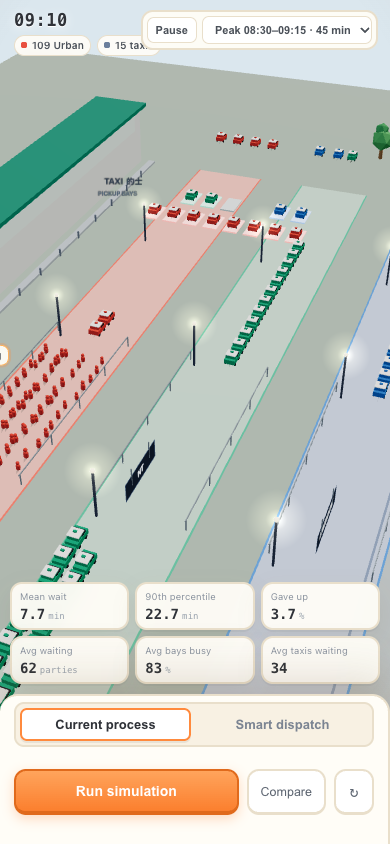
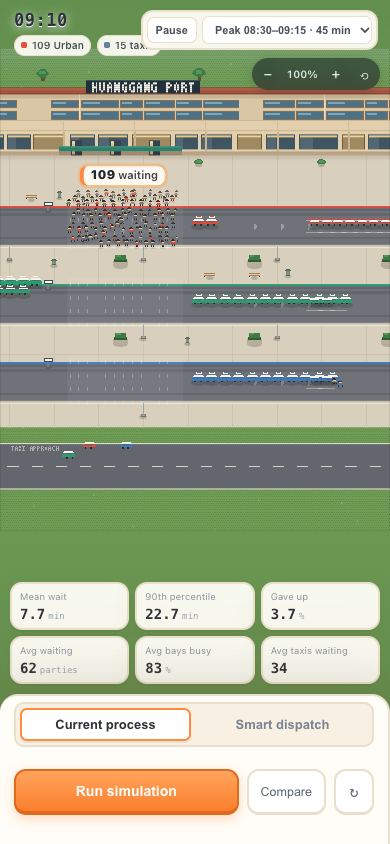
Camera controls you can see, crowd legibility, label clipping
The camera worked but had no affordance: at 100% the whole hall fits, so
dragging did nothing and scrolling was the only way in. Added a visible
zoom cluster (minus / percentage / plus / reset), double-click to dive in
at the pointer, +-0 keyboard shortcuts, and a hint that names the gesture.

Crowd: people are 7px tall instead of 8, so rows no longer touch; overflow
layers are offset into depth (and slightly darkened) instead of stacking
almost exactly on top of each other. A 100-person queue now reads as
individuals at 2x zoom.

Bugs found and fixed while testing:
- counters anchored to points the camera had panned off floated over the
  sidebar; they are now hidden when out of view
- the guided tour still said 'drag to orbit' from the 3D version
- bays array could be undefined if a render happened before setScene
- split panels, dead code comments, stale README screenshots

Adds tests/smoke.mjs: diag, compare, mobile, tour, zoom-label tracking.

diff --git a/web/js/pixel/pixel-scene.js b/web/js/pixel/pixel-scene.js
@@ -96,6 +96,7 @@ export class PixelScene {
     this.labelEls = null;
     this.metaFrame = null;
     this.meta = null;
+    this.bays = [];
 
     // viewport camera over the finished buffer: pan and zoom are pure blits,
     // so the world keeps its authored pixel size at every zoom level
@@ -153,14 +154,26 @@ export class PixelScene {
     c.style.cursor = "grab";
     c.style.touchAction = "none";
 
-    c.addEventListener("wheel", (e) => {
-      e.preventDefault();
-      const before = toBuffer(e.clientX, e.clientY);
-      this.cam.zoom = clamp(this.cam.zoom * Math.exp(-e.deltaY * 0.0016), 1, 4);
-      const after = toBuffer(e.clientX, e.clientY);
+    this._screenToBuffer = (px, py) => {
+      const r = this._viewRect();
+      const k = this.scale * this.cam.zoom;
+      return { x: r.x + (px - this.offX) / k, y: r.y + (py - this.offY) / k };
+    };
+    this._zoomAt = (clientX, clientY, factor) => {
+      const rect = c.getBoundingClientRect();
+      const px = (clientX - rect.left) * (c.width / rect.width);
+      const py = (clientY - rect.top) * (c.height / rect.height);
+      const before = this._screenToBuffer(px, py);
+      this.cam.zoom = clamp(this.cam.zoom * factor, 1, 4);
+      const after = this._screenToBuffer(px, py);
       this.cam.x += before.x - after.x;
       this.cam.y += before.y - after.y;
       this._clampCam();
+    };
+
+    c.addEventListener("wheel", (e) => {
+      e.preventDefault();
+      this._zoomAt(e.clientX, e.clientY, Math.exp(-e.deltaY * 0.0016));
     }, { passive: false });
 
     c.addEventListener("pointerdown", (e) => {
@@ -215,7 +228,10 @@ export class PixelScene {
     c.addEventListener("pointerup", end);
     c.addEventListener("pointercancel", end);
 
-    c.addEventListener("dblclick", () => this.resetView());
+    // double-click dives into the point you clicked; the ⟲ button resets
+    c.addEventListener("dblclick", (e) => {
+      this._zoomAt(e.clientX, e.clientY, e.shiftKey ? 1 / 1.6 : 1.6);
+    });
   }
 
   /** Visible window into the buffer, centred on the camera. */
@@ -236,6 +252,12 @@ export class PixelScene {
     const hy = H / (2 * z);
     this.cam.x = this._clamp(this.cam.x, wx, W - wx);
     this.cam.y = this._clamp(this.cam.y, hy, H - hy);
+  }
+
+  /** Zoom about the middle of the canvas (what the +/− buttons call). */
+  zoomBy(factor) {
+    const r = this.canvas.getBoundingClientRect();
+    this._zoomAt?.(r.left + r.width / 2, r.top + r.height / 2, factor);
   }
 
   resetView() {
@@ -360,10 +382,10 @@ export class PixelScene {
       // brick pattern: every other row is offset half a slot, so the queue
       // reads as a loose crowd instead of a grid of identical figures
       const stagger = row % 2 ? 0.4 : 0;
-      const qx = 13.4 + col * 0.8 + stagger + layer * 0.16;
-      const qz = LANES[CLS[clsId]] + [-2.05, -0.68, 0.68, 2.05][row] + layer * 0.10;
-      const jx = (((id * 37) % 17) / 17 - 0.5) * 0.26;
-      const jz = (((id * 53) % 19) / 19 - 0.5) * 0.30;
+      const qx = 13.4 + col * 0.8 + stagger + layer * 0.42;
+      const qz = LANES[CLS[clsId]] + [-2.05, -0.68, 0.68, 2.05][row] - layer * 0.5;
+      const jx = (((id * 37) % 17) / 17 - 0.5) * 0.16;
+      const jz = (((id * 53) % 19) / 19 - 0.5) * 0.16;
       let e = this.people.get(id);
       if (!e) {
         const [dx, dz] = doorPos(clsId);
@@ -377,6 +399,7 @@ export class PixelScene {
       }
       e.tx = qx + jx;
       e.tz = qz + jz;
+      e.layer = layer;
     }
 
     for (const [id, e] of this.people) {
@@ -407,8 +430,8 @@ export class PixelScene {
     const k = slot % 48;
     const col = k % 12, row = Math.floor(k / 12);
     return [
-      13.4 + col * 0.8 + (row % 2 ? 0.4 : 0) + layer * 0.16,
-      LANES[CLS[clsId]] + [-2.05, -0.68, 0.68, 2.05][row] + layer * 0.10,
+      13.4 + col * 0.8 + (row % 2 ? 0.4 : 0) + layer * 0.42,
+      LANES[CLS[clsId]] + [-2.05, -0.68, 0.68, 2.05][row] - layer * 0.5,
     ];
   }
 
@@ -487,24 +510,36 @@ export class PixelScene {
   _updateLabels() {
     if (!this.labelEls || !this.metaFrame) return;
     const f = this.metaFrame;
+    const r = this._viewRect();
+
+    // a counter anchored to something the camera has panned off-screen must
+    // disappear, otherwise it floats over the sidebar in stage coordinates
+    const inView = (wx, wz) => {
+      const bx = X(wx);
+      const by = Z(wz) - 1.7 * 13;
+      return bx > r.x - 12 && bx < r.x + r.w + 12 && by > r.y - 12 && by < r.y + r.h + 12;
+    };
+
     let worst = 0;
     for (let c = 1; c < 3; c++) if (f.q[c] > f.q[worst]) worst = c;
+
     for (let c = 0; c < 3; c++) {
       const el = this.labelEls[c];
       const [wx, wz] = this._queueSlot(c, Math.min(6, Math.max(0, f.q[c] - 1)));
       const p = this.project(wx, 1.7, wz);
       const n = f.q[c];
-      el.classList.toggle("hidden", n === 0);
+      el.classList.toggle("hidden", n === 0 || !inView(wx, wz));
       el.classList.toggle("worst", c === worst && n > 6);
       el.innerHTML = `<b>${n}</b> waiting`;
       el.style.transform = `translate(${p.x}px, ${p.y}px) translate(-50%, -100%)`;
     }
+
     const buf = this.labelEls[3];
     const [bx, bz] = bufferPos(0, 10);
     const pb = this.project(bx, 1.7, bz);
     buf.innerHTML = `<b>${f.buf}</b> taxis`;
     buf.style.transform = `translate(${pb.x}px, ${pb.y}px) translate(-50%, -100%)`;
-    buf.classList.remove("hidden");
+    buf.classList.toggle("hidden", !inView(bx, bz));
   }
 
   /* ================================================================== *
@@ -512,6 +547,12 @@ export class PixelScene {
    * ================================================================== */
   render() {
     this._applyView();          // compare view: panels have different sizes
+    if (this.canvas.id === "scene") {
+      const ctl = document.getElementById("camCtl");
+      if (ctl && ctl.hidden) ctl.hidden = false;
+      const lvl = document.getElementById("camLvl");
+      if (lvl) lvl.textContent = `${Math.round(this.cam.zoom * 100)}%`;
+    }
     const g = this.g;
     g.clearRect(0, 0, W, H);
 
@@ -644,7 +685,7 @@ export class PixelScene {
       }
       // the queue pad itself is a shade lighter than the lane
       g.fillStyle = "rgba(255,255,255,0.05)";
-      g.fillRect(X(13.2), Z(z - 2.3), X(23.2) - X(13.2), Z(z + 2.3) - Z(z - 2.3));
+      g.fillRect(X(13.2), Z(z - 2.7), X(23.6) - X(13.2), Z(z + 2.3) - Z(z - 2.7));
     }
 
     // bay pads + numbers
@@ -956,9 +997,10 @@ export class PixelScene {
     const f = moving ? 1 + (Math.floor(this.time * 7 + (e.seed || 0)) % 2) : 0;
     const spr = frames[Math.min(f, frames.length - 1)];
 
-    this._shadow(x, y + 1, 3, 0.13);
+    this._shadow(x, y + 1, 3, 0.11);
     g.save();
     if (e.fade != null) g.globalAlpha = Math.max(0, e.fade);
+    else if (e.layer) g.globalAlpha = Math.max(0.55, 1 - e.layer * 0.14);
     if (e.face < 0) {
       g.translate(Math.round(x), Math.round(y));
       g.scale(-1, 1);

diff --git a/web/js/app.js b/web/js/app.js
@@ -1,5 +1,5 @@
 /**
- * UI shell: controls -> simulation -> 3D playback.
+ * UI shell: controls -> simulation -> pixel playback.
  *
  * Everything runs in the browser, so the site is a static bundle: no API, no
  * server, no cold start.  A 12-hour day simulates in ~50 ms.
@@ -132,6 +132,20 @@ const state = {
 };
 
 const scene = new PixelScene($("#scene"));
+
+// camera controls: the canvas is drag/scroll, but a visible affordance matters
+$("#camIn")?.addEventListener("click", () => scene.zoomBy(1.35));
+$("#camOut")?.addEventListener("click", () => scene.zoomBy(1 / 1.35));
+$("#camReset")?.addEventListener("click", () => {
+  scene.resetView();
+  sceneB?.resetView();
+});
+window.addEventListener("keydown", (e) => {
+  if (e.target.matches("input, select, textarea")) return;
+  if (e.key === "+" || e.key === "=") scene.zoomBy(1.3);
+  else if (e.key === "-" || e.key === "_") scene.zoomBy(1 / 1.3);
+  else if (e.key === "0") scene.resetView();
+});
 
 /* Auto-apply: a run costs 25-50 ms, so waiting for a button is friction.
    Debounced so dragging a slider does not queue dozens of runs. */
@@ -890,7 +904,7 @@ const TOUR = [
     title: "This is the taxi hall",
     text:
       "Empty taxis queue in the buffer on the left, passengers wait in three lanes, " +
-      "and the pickup bays are at the far end. Drag to orbit, pinch or scroll to zoom.",
+      "and the pickup bays are at the far end. Drag to look around, or use + to zoom in.",
     target: "#stage",
     sheet: false,
   },

diff --git a/web/css/style.css b/web/css/style.css
@@ -1020,3 +1020,45 @@ main { background: var(--bg); }
 @media (max-width: 820px) {
   #camHint { font-size: 10px; left: 10px; top: 58px; padding: 5px 9px; }
 }
+
+/* ------------------------- camera controls ------------------------- */
+#camCtl {
+  position: absolute;
+  top: 62px;
+  right: 14px;
+  z-index: 6;
+  display: flex;
+  align-items: center;
+  gap: 2px;
+  padding: 3px;
+  border-radius: 999px;
+  background: rgba(20, 28, 36, 0.55);
+  backdrop-filter: blur(8px);
+  box-shadow: 0 2px 10px rgba(20, 28, 36, 0.18);
+}
+#camCtl[hidden] { display: none; }
+#camCtl button {
+  width: 26px;
+  height: 26px;
+  border: 0;
+  border-radius: 50%;
+  background: transparent;
+  color: rgba(255, 255, 255, 0.92);
+  font-size: 15px;
+  line-height: 1;
+  cursor: pointer;
+}
+#camCtl button:hover { background: rgba(255, 255, 255, 0.16); }
+#camCtl button:active { transform: scale(0.94); }
+#camLvl {
+  min-width: 38px;
+  text-align: center;
+  font: 600 10.5px/1 -apple-system, BlinkMacSystemFont, "Segoe UI", sans-serif;
+  color: rgba(255, 255, 255, 0.85);
+  font-variant-numeric: tabular-nums;
+}
+@media (max-width: 820px) {
+  /* the bottom of the stage sits behind the sheet on phones */
+  #camCtl { top: 58px; right: 10px; bottom: auto; }
+  #camHint { display: none; }
+}

diff --git a/web/index.html b/web/index.html
@@ -66,7 +66,13 @@
           <canvas id="scene"></canvas>
           <canvas id="sceneB" hidden></canvas>
           <div id="zoneLabels" aria-hidden="true"></div>
-          <div id="camHint">Drag to look around · scroll or pinch to zoom · double-click to reset</div>
+          <div id="camCtl" hidden>
+            <button id="camOut" title="Zoom out" aria-label="Zoom out">−</button>
+            <span id="camLvl">100%</span>
+            <button id="camIn" title="Zoom in" aria-label="Zoom in">+</button>
+            <button id="camReset" title="Reset view" aria-label="Reset view">⟲</button>
+          </div>
+          <div id="camHint">Drag to look around · scroll or pinch to zoom</div>
           <div id="tagA" class="stage-tag" hidden>A · Current process</div>
           <div id="tagB" class="stage-tag" hidden>B · Your proposal</div>
         </div>

diff --git a/web/js/pixel/sprites.js b/web/js/pixel/sprites.js
@@ -98,14 +98,12 @@ const PERSON_TOP = [
   ".fff.",
   ".ccc.",
   "ccccc",
-  "c.c.c",
 ];
 
-/** Three leg poses; the walk cycle alternates A and C with B as the rest pose. */
 const PERSON_LEGS = [
+  [".k.k.", ".s.s."],
   ["..kk.", ".ss.s"],
-  [".kk..", ".s.s."],
-  [".kk.k", "ss..s"],
+  ["k...k", "s...s"],
 ];
 
 function personFrames(shirt) {
